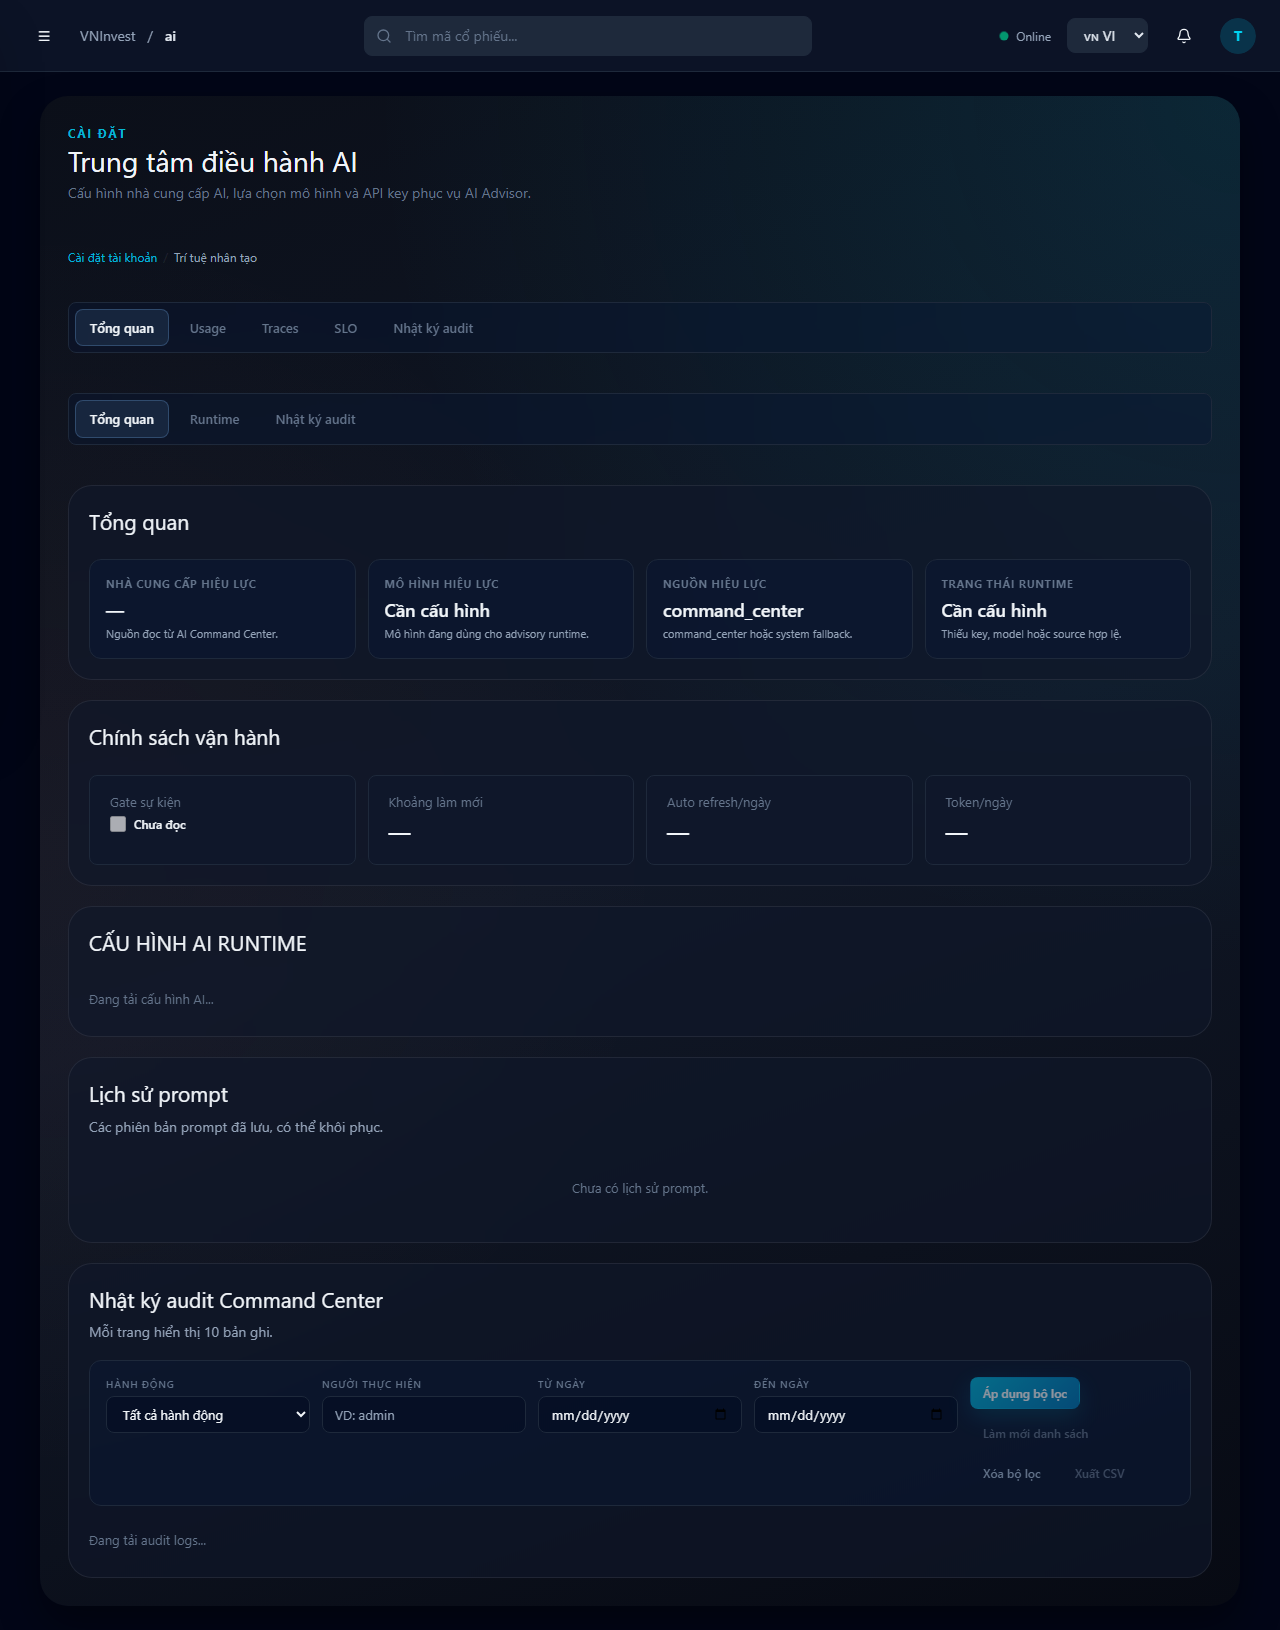
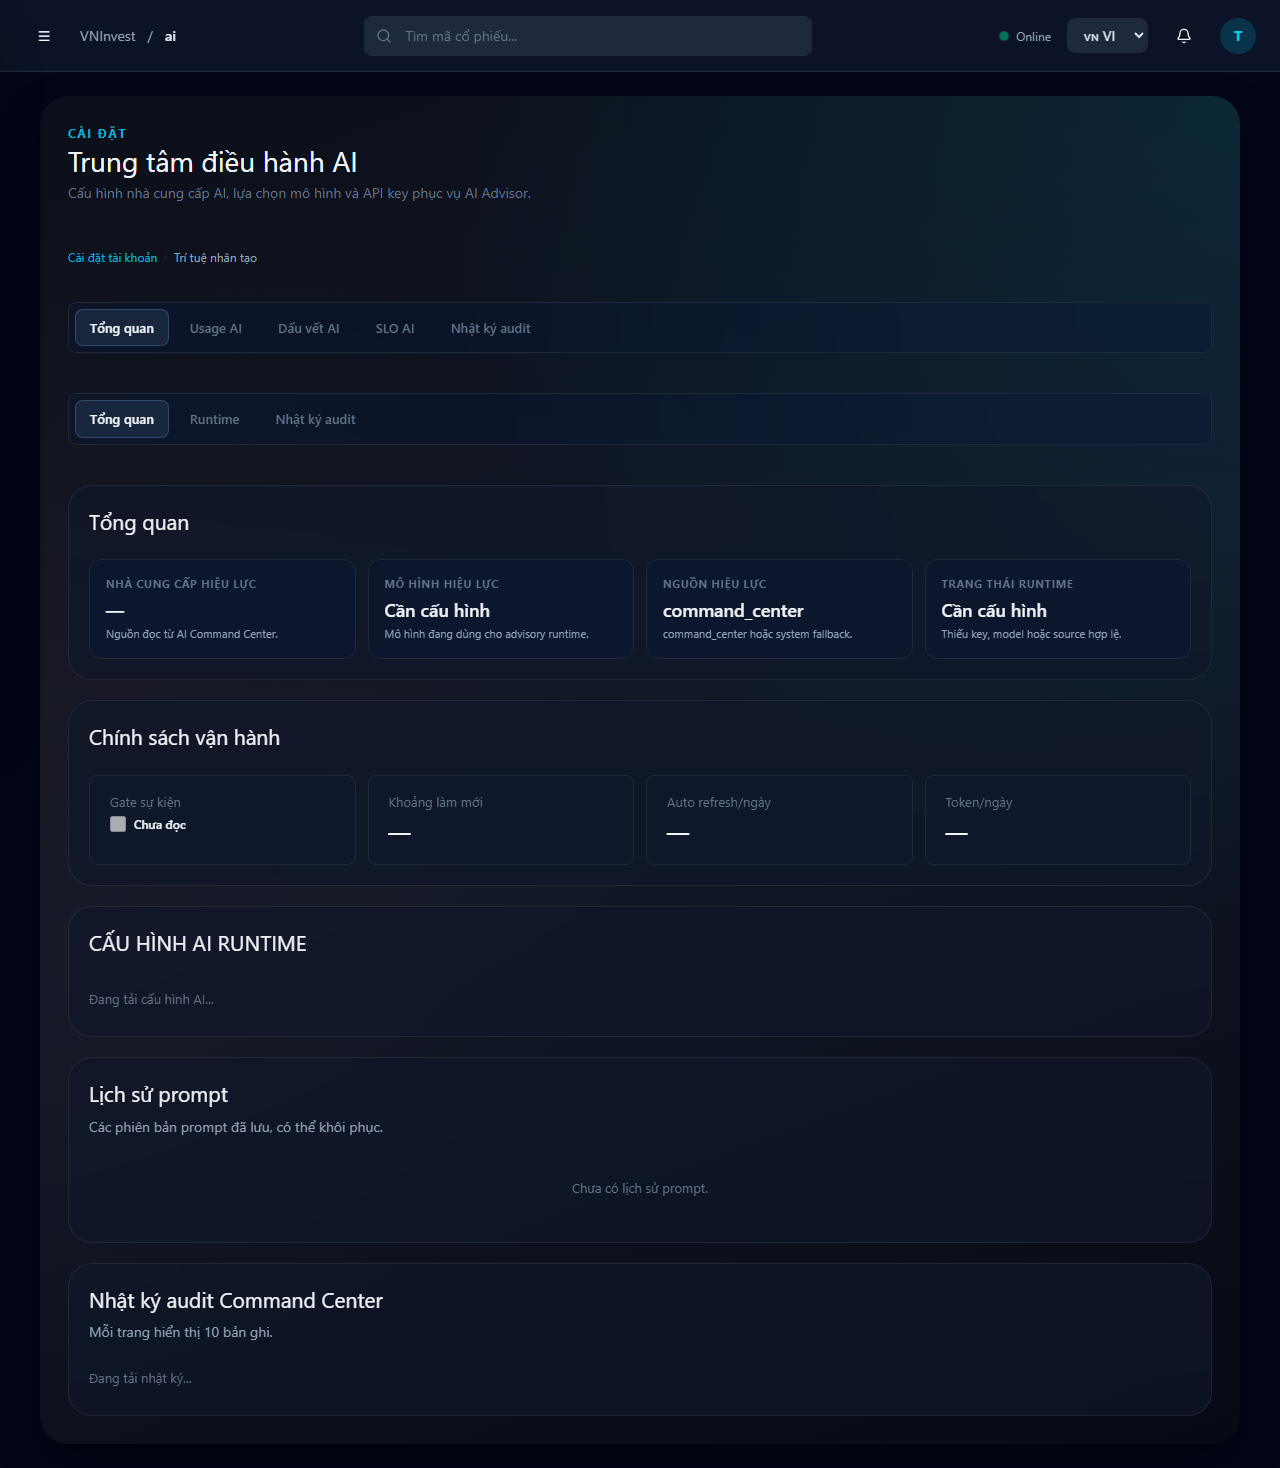
docs(evidence): R5.1d verify sau khi sua tren staging (mo anh xac nhan bang mat)
Deploy dev @ cbafa4b47 roi chay lai ai-hub-nav-r51 = 4 passed (37.3s).

Da mo 2 anh moi va XAC NHAN BANG MAT ca 3 loi da het:
- nhan tab: Tổng quan · Usage AI · Dấu vết AI · SLO AI · Nhật ký audit (het tieng Anh)
- breadcrumb: ... / Nhật ký audit (het chuoi tho "audit")
- bang audit: 4 cot roi nhau THOI DIEM | HANH DONG | NGUOI THUC HIEN | LY DO + duong ke

3 quan sat moi, CHUA ket luan la loi:
- 2 khoi "Đang tải …" o ca hai lan chup o hai thoi diem khac nhau (chua do thoi diem
  hoan tat) · nav phu trong card con nhan tieng Anh "Runtime" · placeholder
  "Lọc theo hành động" bi cat.

Claim: ai-r51d
Deny-List: (none)

diff --git a/docs/evidence/ai-cc/r51d-fix-3-loi.md b/docs/evidence/ai-cc/r51d-fix-3-loi.md
@@ -65,10 +65,23 @@ test đỏ **vì lý do sai**.
 tab nav. **Thử `a[href^="/settings/ai"]` trước vẫn sai** vì breadcrumb có link `/settings/ai`
 và đứng trước trong DOM. Đây là cùng bài học L-V04 ở tầng **test**.
 
+## VERIFY SAU KHI SỬA — chạy thật trên staging, **đã mở ảnh xác nhận bằng mắt**
+
+Deploy `dev` @ `cbafa4b47` → chạy lại `ai-hub-nav-r51`: **4 passed (37.3s)**, 2 ảnh chụp lại.
+
+| Lỗi | Trước (ảnh cũ) | Sau (ảnh mới) — xác nhận bằng mắt |
+|---|---|---|
+| 1 nhãn VI | `Tổng quan · Usage · Traces · SLO · Nhật ký audit` | `Tổng quan · **Usage AI** · **Dấu vết AI** · **SLO AI** · Nhật ký audit` |
+| 2 breadcrumb | `Cài đặt tài khoản / Trí tuệ nhân tạo / **audit**` | `Cài đặt tài khoản / Trí tuệ nhân tạo / **Nhật ký audit**` |
+| 3 bảng audit | `Thời điểmHành độngNgười thực hiện đó` (dính liền) | 4 cột rời nhau: `THỜI ĐIỂM │ HÀNH ĐỘNG │ NGƯỜI THỰC HIỆN │ LÝ DO` + đường kẻ ngang |
+
 ## Còn mở
 
-- **CHƯA CHẠY**: E2E lại trên staging để chụp lại 2 ảnh và xác nhận bằng mắt — cần deploy
-  bản này trước (sẽ làm sau khi merge).
-- Ảnh `01` có "Đang tải …" ở 2 khối dữ liệu — chưa đo thời điểm hoàn tất nên **không** kết
-  luận là lỗi tải.
+- **Quan sát mới** (chưa kết luận là lỗi): hai khối "CÀU HÌNH AI RUNTIME" và "Nhật ký audit
+  Command Center" vẫn hiện **"Đang tải …"** ở **cả hai** lần chụp, ở hai thời điểm khác nhau.
+  Chưa đo thời điểm hoàn tất ⇒ **không** kết luận là lỗi tải; cần đo riêng.
+- Nav phụ trong card hub vẫn có nhãn **tiếng Anh** `Runtime` (thuộc component khác, không
+  nằm trong `AiHubNav`) — chưa đo khoá của nó.
+- Ô nhập "Lọc theo hành động" có placeholder bị **cắt** (`vd: t…`) — nghi vấn do bề rộng ô
+  nhập, **chưa** đo, không sửa trong slice này.
 - Chưa kiểm nav 5 tab ở viewport mobile/tablet.

diff --git a/docs/CODE_CHANGE_AUDIT_LEDGER.md b/docs/CODE_CHANGE_AUDIT_LEDGER.md
@@ -7,7 +7,8 @@
 - **FAIL-BEFORE**: test breadcrumb moi do 4 do, in ra dung `"audit"` / `"traces"` / `"slo"` — khop anh.
 - **MOT TEST CU TOI PHAI SUA THEO (va vi sao do dung)**: `ai-hub-nav-r18.component.test.tsx` AC2 tim nav hub bang **text khoa i18n**; sau khi breadcrumb render khoa (khi `t()` tra ve chinh khoa) thi `find()` bat **nham breadcrumb** ⇒ test do **vi ly do sai**. Sua sang loc theo **cau truc** `nav:has(a[href="/settings/ai/usage"])`. **Thu `a[href^="/settings/ai"]` truoc VAN SAI** vi breadcrumb co link `/settings/ai` va dung truoc trong DOM — cung L-V04 o tang **test**.
 - **AC + Gates**: AC1 4 nhan breadcrumb da dich · AC2 khong pha nhan tenant · AC3 nhan VI 3 tab · AC4 `.auditTable` ton tai (do lai: "Khong thieu class nao") · AC5 hoi quy **455** test (truoc 450, **+5** = dung 5 test moi, **khong mat test nao**) · AC6 `tsc` exit 0 + `build` exit 0.
-- **CHUA CHAY**: E2E lai tren staging + chup lai 2 anh va xac nhan bang mat (can deploy truoc).
+- **VERIFY SAU KHI SUA (deploy `dev` @ `cbafa4b47`)**: chay lai `ai-hub-nav-r51` = **4 passed (37.3s)**; **da mo 2 anh moi xem bang mat** — nhan tab het tieng Viet (`Usage AI · Dấu vết AI · SLO AI`) · breadcrumb `Nhật ký audit` (het chuoi tho `audit`) · bang audit co **4 cot roi nhau** + duong ke ngang. Ca 3 loi xac nhan da het.
+- **QUAN SAT MOI (chua ket luan la loi)**: 2 khoi "CÀU HÌNH AI RUNTIME" + "Nhật ký audit Command Center" van hien **"Đang tải …"** o **ca hai** lan chup o hai thoi diem khac nhau · nav phu trong card hub con nhan tieng Anh `Runtime` (component khac khong phai `AiHubNav`) · placeholder "Lọc theo hành động" bi cat (`vd: t…`).
 
 ## Entry 377: E2E nav AI tren staging — **5 tab, 0 link Agents** xac nhan bang anh that; va **mo anh ra xem bat duoc 3 loi khong test nao bat** (2026-10-18)
 
